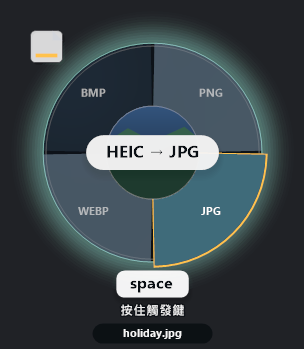
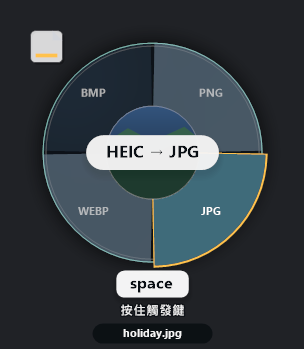
feat(wheel): 光暈總開關（預設關閉）＋檢查腳本支援 -Glow
使用者實機回報：淺色調弱後「好像沒變」⇒ 他看的是深色分支，而深色已對齊設計稿仍被看成一大圈。
依使用者要求先把光暈整個關掉做排除法：關掉後若那一圈還在，就是投影而不是光暈。
- WheelDesign.GlowEnabled（static readonly false；用 readonly 避免 CS0162 不可達程式碼）
  所有強度/厚度/圈數參數保留，還原只需改 true。
- check-frame.ps1 新增 -Glow 1|0：關閉時改驗「盤外環帶只剩中性黑投影、不得有色度」。
- 有光暈（-Glow 1）與無光暈（-Glow 0）兩種狀態的畫面都留存。

Changed region(s): [[0.0592, 0.0573, 0.9474, 0.8023]]

diff --git a/src/Sidecar/Visual/WheelPresenter.cs b/src/Sidecar/Visual/WheelPresenter.cs
@@ -291,13 +291,17 @@ internal sealed class WheelPresenter
     private void DrawGlass(Graphics g, float cx, float cy, float r)
     {
         double luma = _glass?.MeanLuma ?? 0.0;
-        Color glow = WheelDesign.Glow(luma);
 
         // 1) 柔暈（由外而內疊加）。強度與厚度都是**實測設計稿**得來的值（見 WheelDesign 的註記）。
         //    從盤緣外 GlowStartPx 才開始，否則光暈會貼著玻璃邊變成一條亮環。
-        double rimAcc = WheelDesign.GlowRimAlpha(luma) / 255.0;
-        DrawSoftRing(g, cx, cy, r + WheelDesign.GlowStartPx,
-                     WheelDesign.GlowSpanPx, WheelDesign.GlowRings, rimAcc, glow);
+        //    WheelDesign.GlowEnabled = false 時整個不畫（2026-10-01 實機排除法用）。
+        if (WheelDesign.GlowEnabled)
+        {
+            Color glow = WheelDesign.Glow(luma);
+            double rimAcc = WheelDesign.GlowRimAlpha(luma) / 255.0;
+            DrawSoftRing(g, cx, cy, r + WheelDesign.GlowStartPx,
+                         WheelDesign.GlowSpanPx, WheelDesign.GlowRings, rimAcc, glow);
+        }
 
         // 2) 柔投影（讓玻璃浮起來，而不是貼在桌布上）。淺色桌布要更重。
         int shadowMax = WheelDesign.ShadowMax(luma);

diff --git a/src/Sidecar/Visual/WheelDesign.cs b/src/Sidecar/Visual/WheelDesign.cs
@@ -129,6 +129,14 @@ internal static class WheelDesign
     public const int GlowRimAlphaDark = 113;
     public const int GlowRimAlphaLight = 94;
 
+    /// <summary>
+    /// 光暈總開關。2026-10-01 使用者實機測試：深色底即使已對齊設計稿，仍被看成「一大圈」，
+    /// 故先關掉做排除法——關掉後若那一圈還在，就是投影而不是光暈。
+    /// **還原＝改成 true**；強度、厚度、圈數等參數全部保留，沒有刪除任何一個。
+    /// 刻意用 static readonly 而非 const：const 會讓編譯器把 if 折成不可達程式碼並發 CS0162。
+    /// </summary>
+    public static readonly bool GlowEnabled = false;
+
     public static int GlowRimAlpha(double meanLuma) =>
         IsLightBackdrop(meanLuma) ? GlowRimAlphaLight : GlowRimAlphaDark;
 
